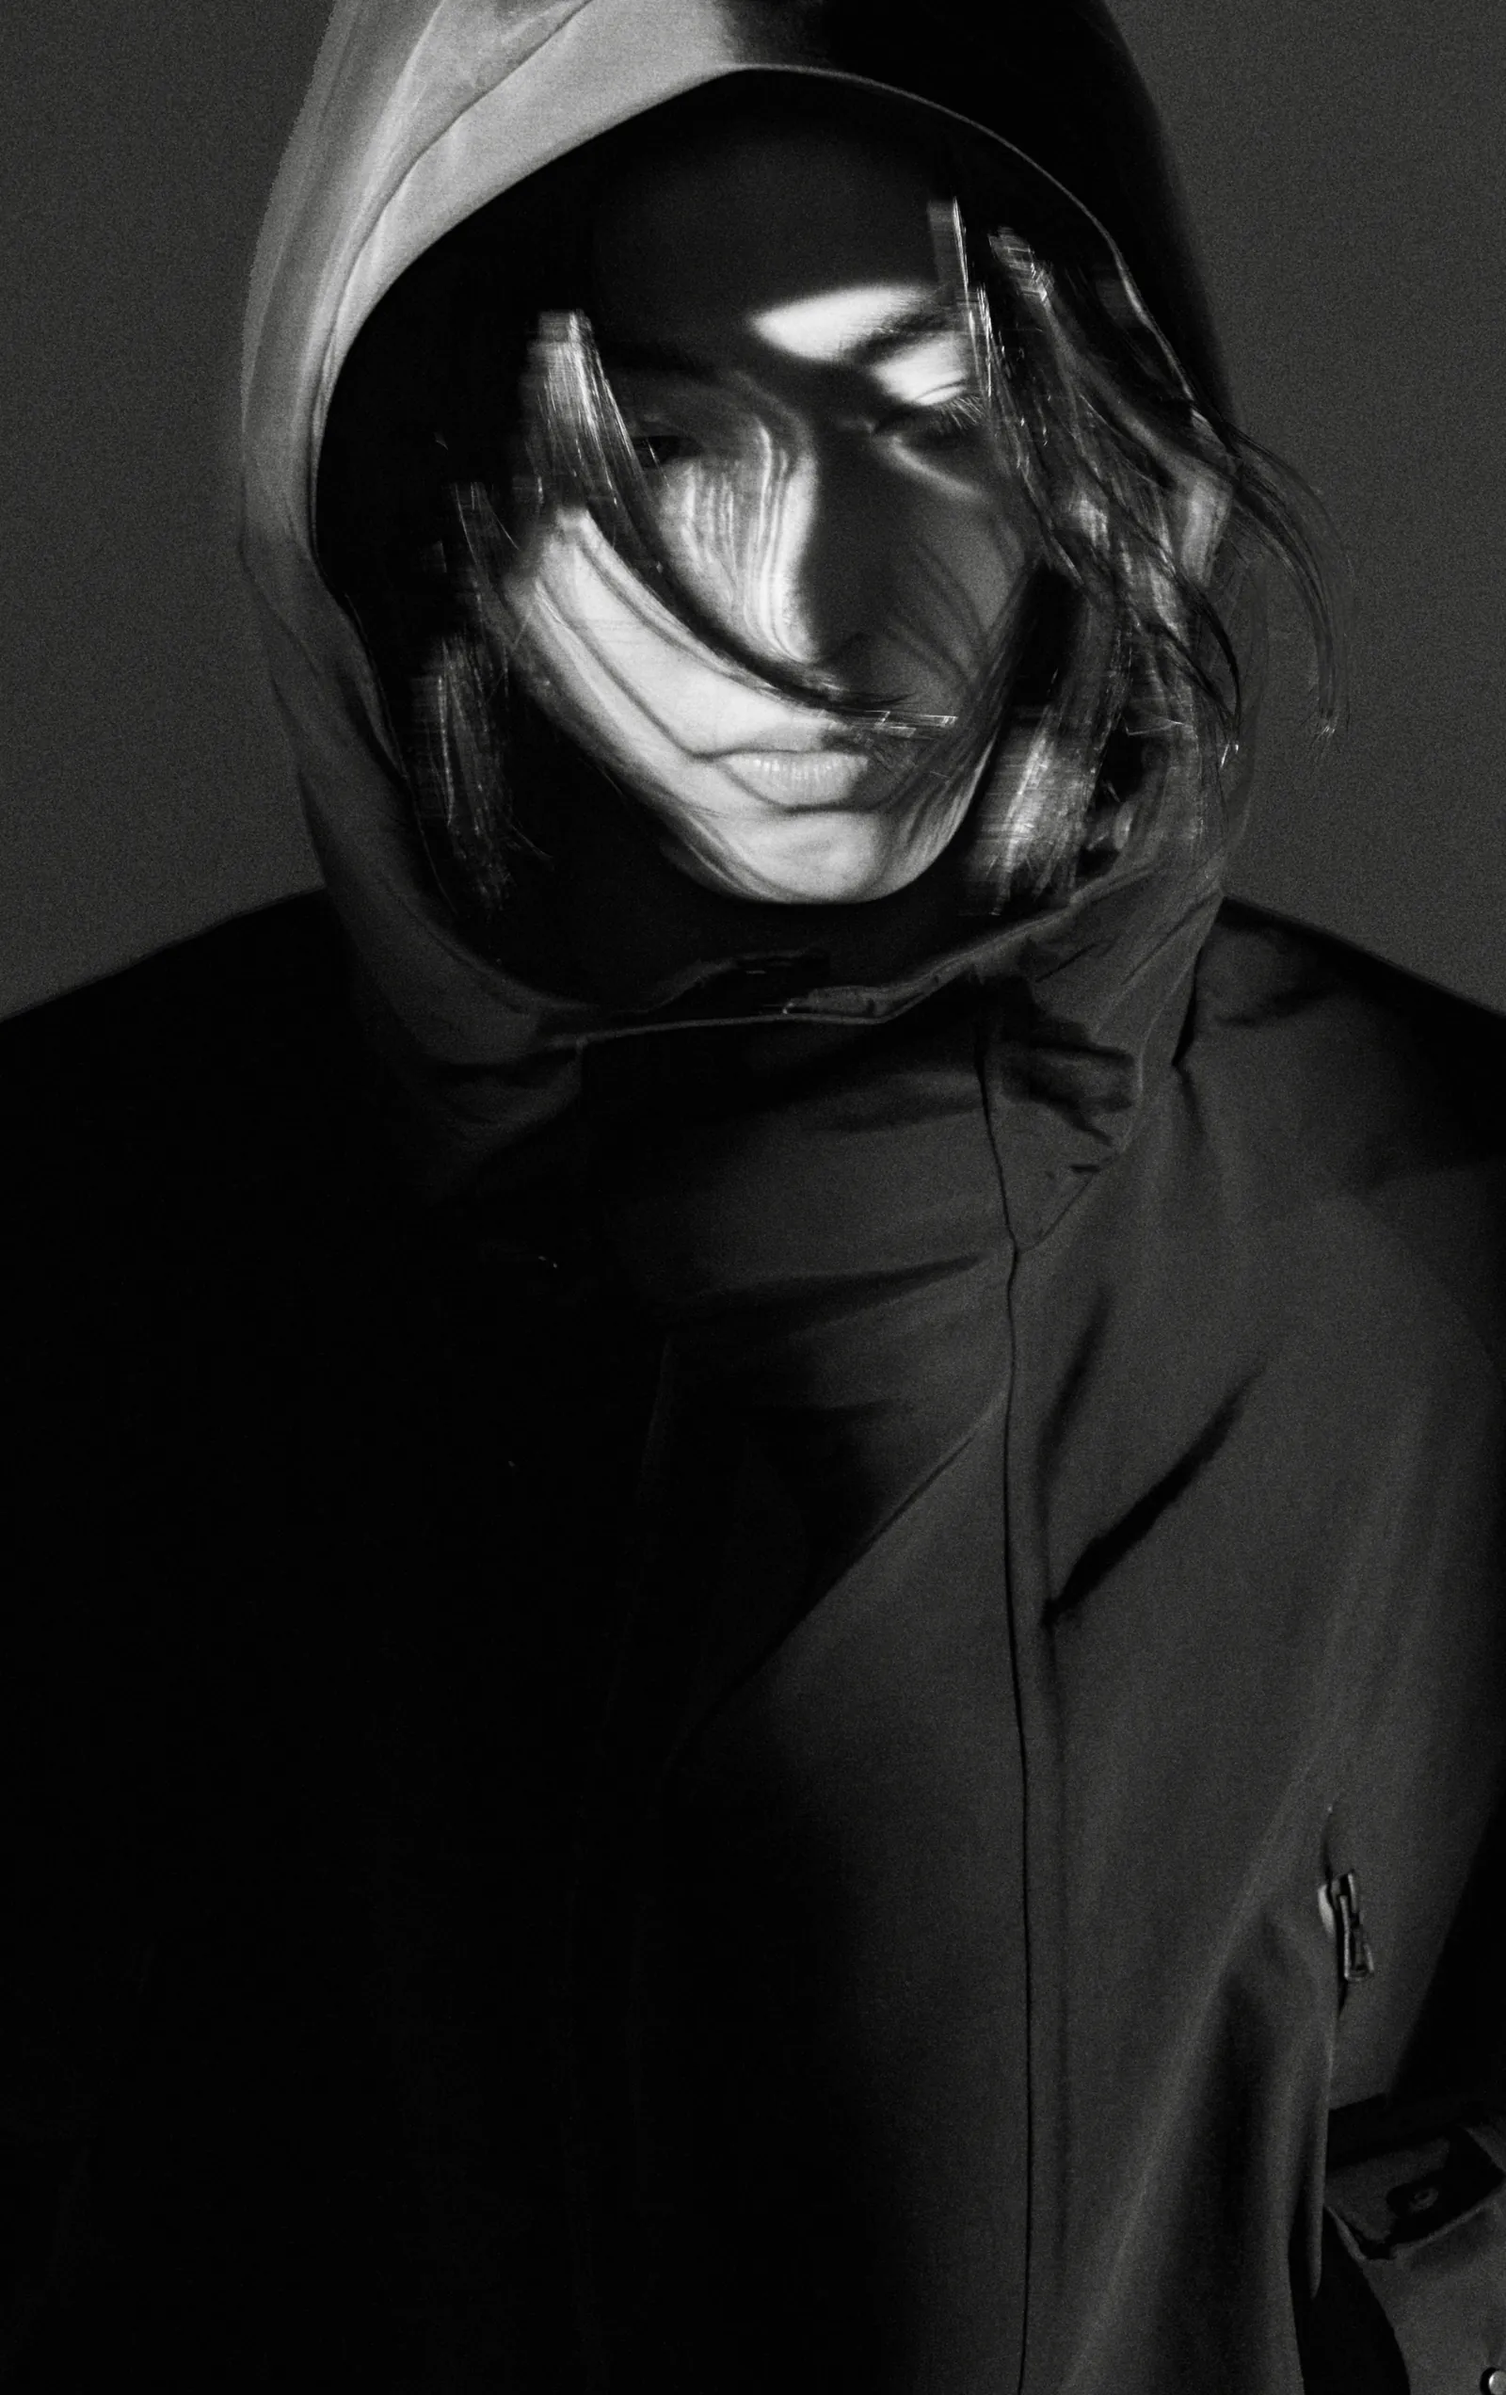
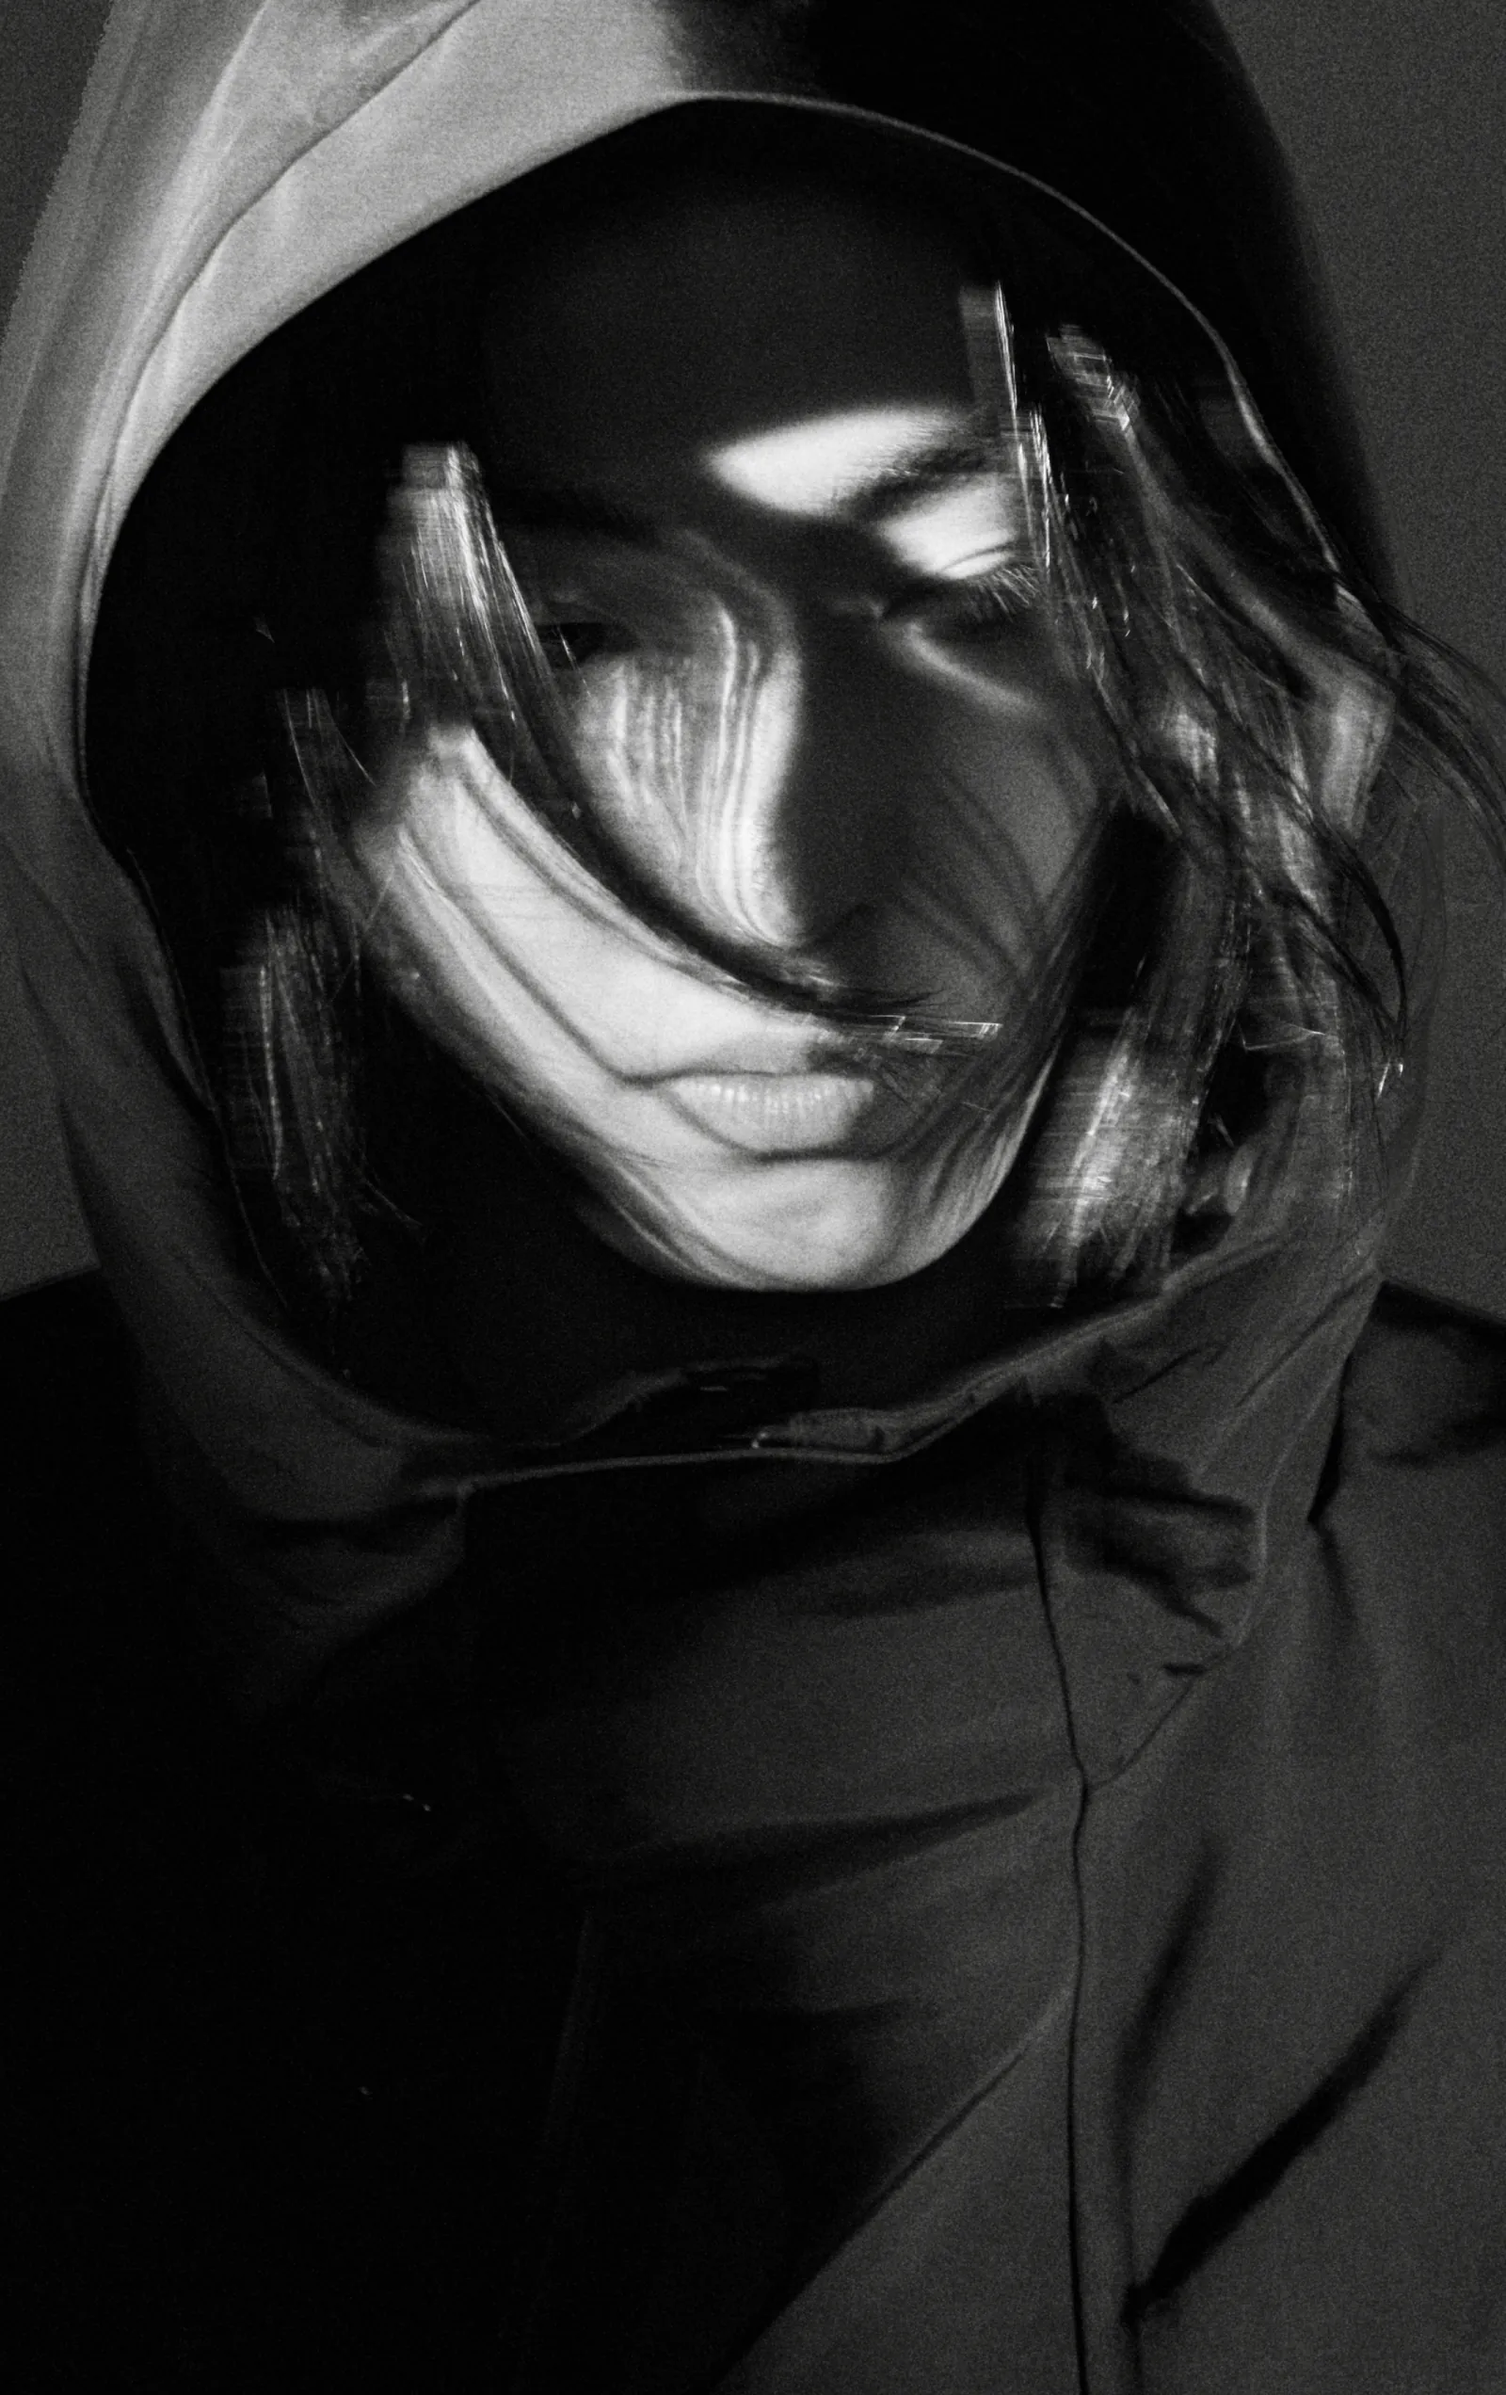
Key visual: portrait shot 1 cropped closer on the face (70%)

diff --git a/jp/index.html b/jp/index.html
@@ -45,7 +45,7 @@
   <link rel="stylesheet" href="https://cdn.jsdelivr.net/gh/orioncactus/pretendard@v1.3.9/dist/web/static/pretendard.min.css" />
   <link rel="stylesheet" href="https://fonts.googleapis.com/css2?family=Noto+Sans+JP:wght@400&display=swap" />
   <link rel="stylesheet" href="https://cdn.jsdelivr.net/gh/orioncactus/pretendard@v1.3.9/dist/web/static/pretendard-jp.min.css" />
-  <link rel="stylesheet" href="../style.css?v=20261124135129" />
+  <link rel="stylesheet" href="../style.css?v=20261124135224" />
   <script type="importmap">{ "imports": { "three": "https://unpkg.com/three@0.160.0/build/three.module.min.js" } }</script>
   <script>
     // The intro plays until it has been seen through once in this browsing
@@ -315,7 +315,7 @@
   </main>
 
   <script src="https://cdn.jsdelivr.net/npm/lenis@1.3.26/dist/lenis.min.js"></script>
-  <script src="../main.js?v=20261124135129"></script>
-  <script type="module" src="../intro/intro.js?v=20261124135129" onerror="window.aansSkipIntro && window.aansSkipIntro()"></script>
+  <script src="../main.js?v=20261124135224"></script>
+  <script type="module" src="../intro/intro.js?v=20261124135224" onerror="window.aansSkipIntro && window.aansSkipIntro()"></script>
 </body>
 </html>

diff --git a/index.html b/index.html
@@ -44,7 +44,7 @@
   <link rel="stylesheet" href="https://fonts.googleapis.com/css2?family=Oswald:wght@300;400;500&display=swap" />
   <link rel="stylesheet" href="https://cdn.jsdelivr.net/gh/orioncactus/pretendard@v1.3.9/dist/web/static/pretendard.min.css" />
   <link rel="stylesheet" href="https://fonts.googleapis.com/css2?family=Inter:wght@400&display=swap" />
-  <link rel="stylesheet" href="style.css?v=20261124135129" />
+  <link rel="stylesheet" href="style.css?v=20261124135224" />
   <script type="importmap">{ "imports": { "three": "https://unpkg.com/three@0.160.0/build/three.module.min.js" } }</script>
   <script>
     // The intro plays until it has been seen through once in this browsing
@@ -312,7 +312,7 @@
   </main>
 
   <script src="https://cdn.jsdelivr.net/npm/lenis@1.3.26/dist/lenis.min.js"></script>
-  <script src="main.js?v=20261124135129"></script>
-  <script type="module" src="intro/intro.js?v=20261124135129" onerror="window.aansSkipIntro && window.aansSkipIntro()"></script>
+  <script src="main.js?v=20261124135224"></script>
+  <script type="module" src="intro/intro.js?v=20261124135224" onerror="window.aansSkipIntro && window.aansSkipIntro()"></script>
 </body>
 </html>

diff --git a/kr/index.html b/kr/index.html
@@ -43,7 +43,7 @@
   <link rel="preconnect" href="https://fonts.gstatic.com" crossorigin />
   <link rel="stylesheet" href="https://fonts.googleapis.com/css2?family=Oswald:wght@300;400;500&display=swap" />
   <link rel="stylesheet" href="https://cdn.jsdelivr.net/gh/orioncactus/pretendard@v1.3.9/dist/web/static/pretendard.min.css" />
-  <link rel="stylesheet" href="../style.css?v=20261124135129" />
+  <link rel="stylesheet" href="../style.css?v=20261124135224" />
   <script type="importmap">{ "imports": { "three": "https://unpkg.com/three@0.160.0/build/three.module.min.js" } }</script>
   <script>
     // The intro plays until it has been seen through once in this browsing
@@ -311,7 +311,7 @@
   </main>
 
   <script src="https://cdn.jsdelivr.net/npm/lenis@1.3.26/dist/lenis.min.js"></script>
-  <script src="../main.js?v=20261124135129"></script>
-  <script type="module" src="../intro/intro.js?v=20261124135129" onerror="window.aansSkipIntro && window.aansSkipIntro()"></script>
+  <script src="../main.js?v=20261124135224"></script>
+  <script type="module" src="../intro/intro.js?v=20261124135224" onerror="window.aansSkipIntro && window.aansSkipIntro()"></script>
 </body>
 </html>

diff --git a/intro/intro.js b/intro/intro.js
@@ -1,6 +1,6 @@
 import * as THREE from "three";
-import { VERTEX_SHADER, FRAGMENT_SHADER } from "./shaders.js?v=20261124135129";
-import { loadLogoTexture } from "./logoTexture.js?v=20261124135129";
+import { VERTEX_SHADER, FRAGMENT_SHADER } from "./shaders.js?v=20261124135224";
+import { loadLogoTexture } from "./logoTexture.js?v=20261124135224";
 
 // Intro (Figma A_Intro, 2597:1545), layered over the top of the home page.
 //

diff --git a/intro/logoTexture.js b/intro/logoTexture.js
@@ -1,5 +1,5 @@
 import * as THREE from "three";
-import { signedDistanceField } from "./sdf.js?v=20261124135129";
+import { signedDistanceField } from "./sdf.js?v=20261124135224";
 
 // Rasterizes the logo's SVG path(s) FILLED onto an offscreen canvas, then
 // bakes a real signed distance field from that mask (see sdf.js). The shader
